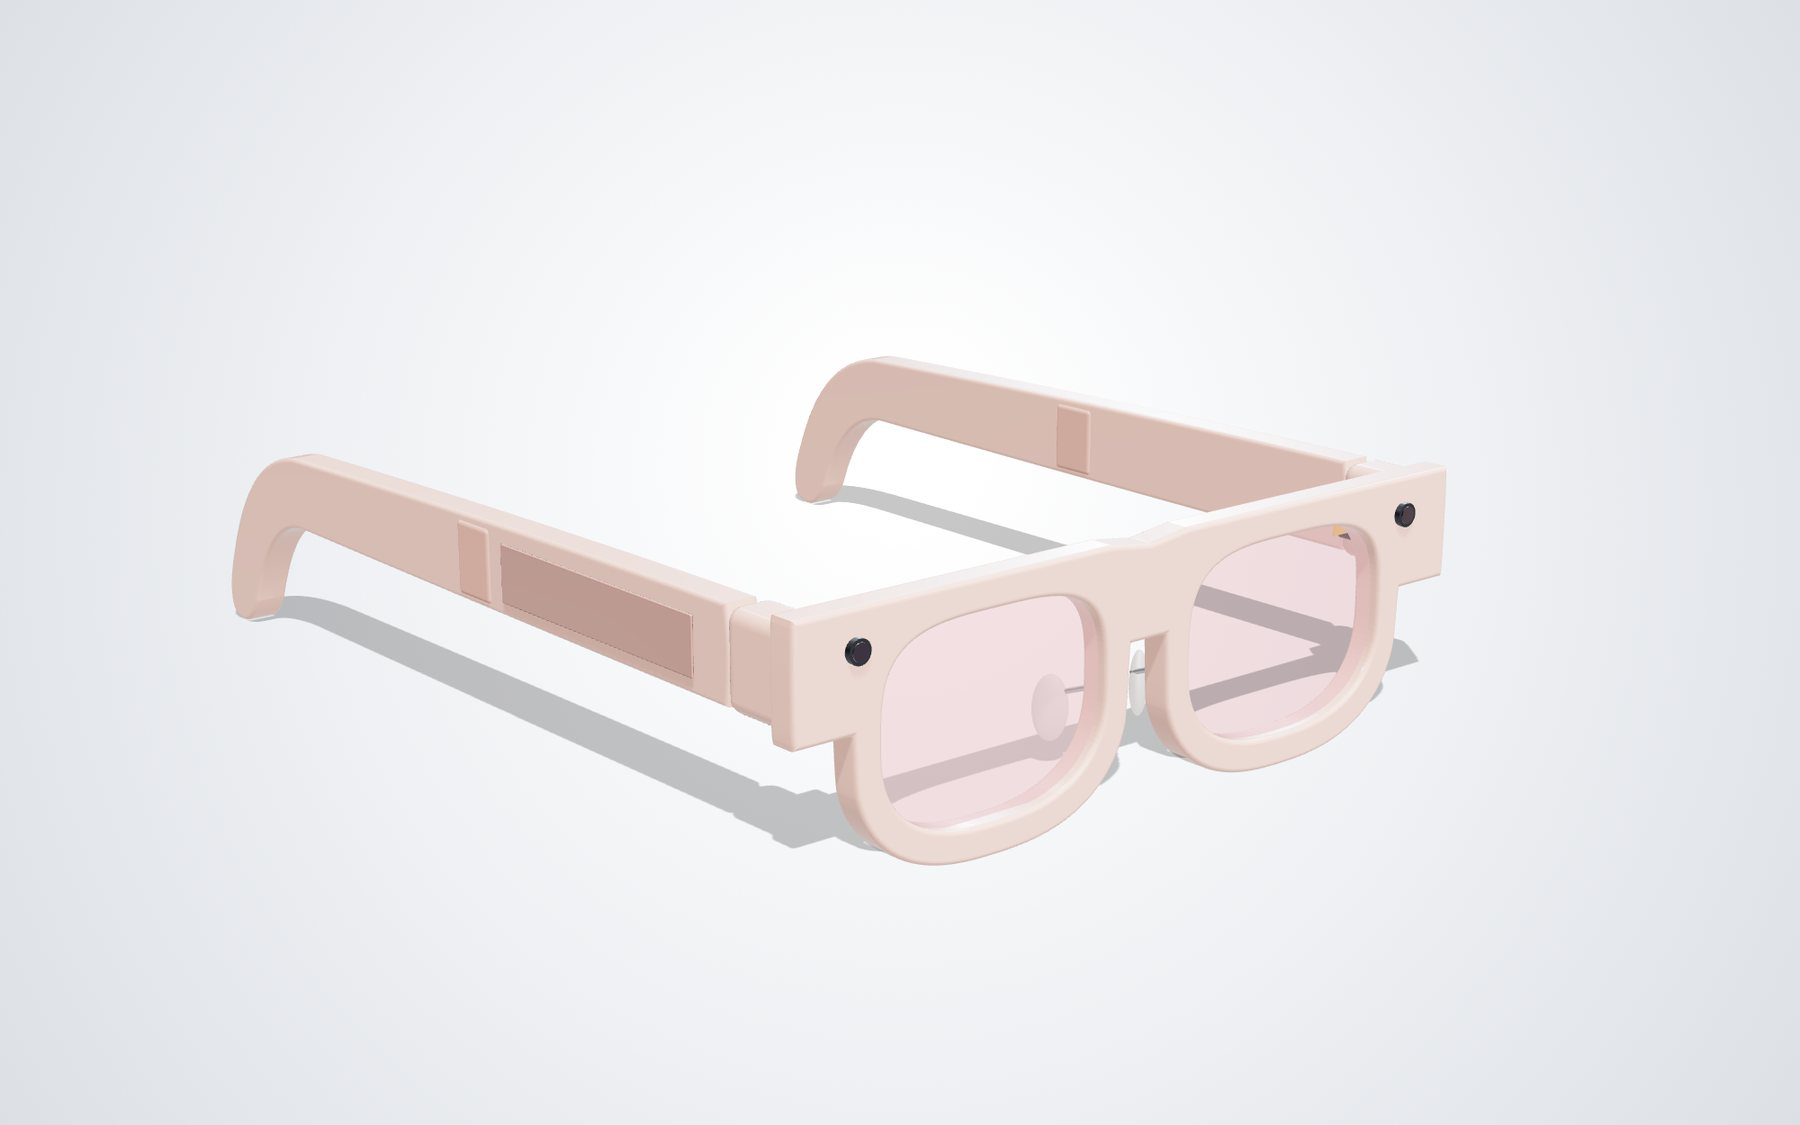
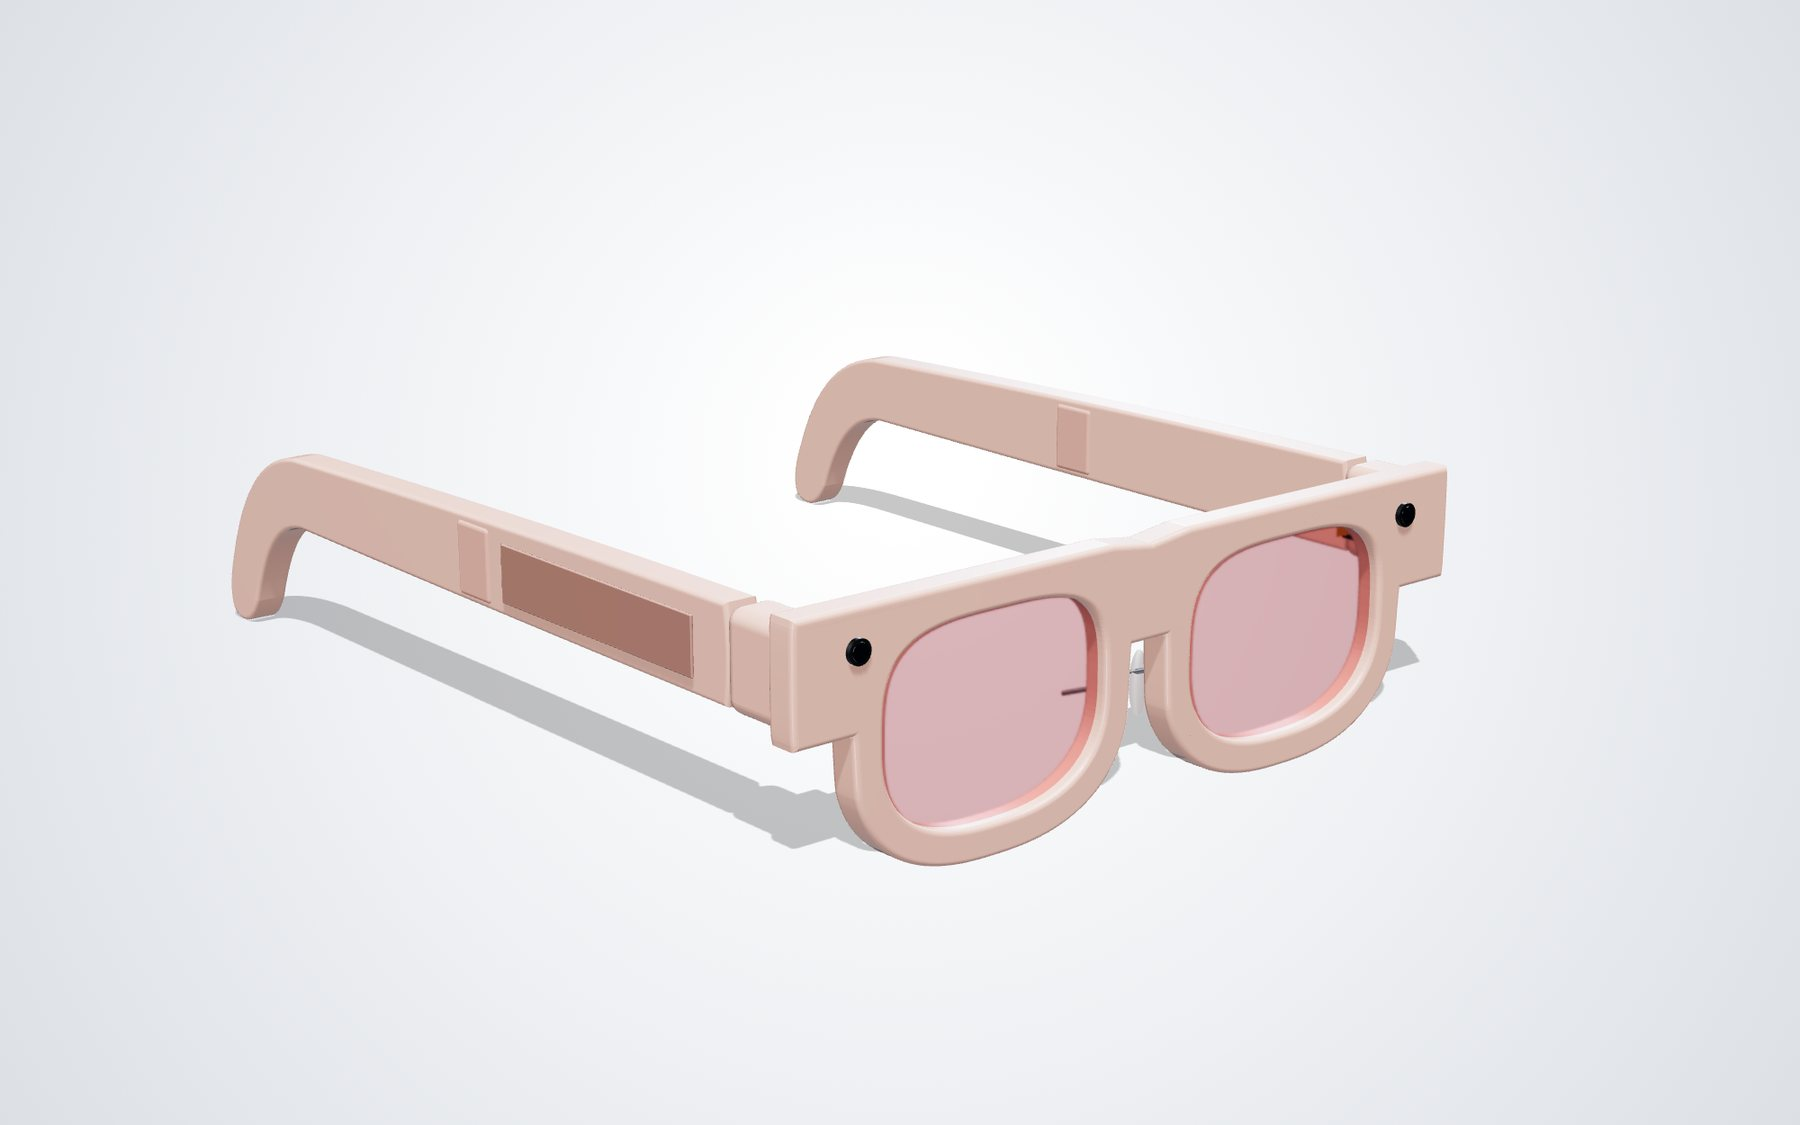
Realistic frames: studio lighting, polished acetate, glass lenses, round and panto styles
Claude-Session: https://claude.ai/code/session_015V3QWV9nG91xpdHoGBTigu

Changed region(s): [[0.28, 0.4044, 0.8089, 0.7778], [0.1244, 0.4667, 0.1867, 0.56], [0.4356, 0.3733, 0.4978, 0.4667]]

diff --git a/scripts/glasses_render/glasses.html b/scripts/glasses_render/glasses.html
@@ -41,6 +41,7 @@ const CLEAN = params.has('clean') || MODE === 'anim' || MODE === 'worn';   // no
 const COLOR = params.get('color') || 'obsidian';
 const LENS = params.get('lens') || 'clear';
 const VIEW = params.get('view') || 'three-quarter';
+const STYLE = params.get('style') || 'square';      // square | round | panto
 const BG = (params.get('bg') || '').split(',').filter(Boolean).map(c => '#' + c);
 document.body.style.width = W + 'px'; document.body.style.height = H + 'px';
 document.getElementById('wrap').style.cssText = `width:${W}px;height:${H}px`;
@@ -61,7 +62,21 @@ scene.background = (() => { const c = document.createElement('canvas'); c.width 
   const grd = g.createRadialGradient(600, 300, 50, 600, 375, 820); grd.addColorStop(0, b0); grd.addColorStop(0.45, b1); grd.addColorStop(1, b2);
   g.fillStyle = grd; g.fillRect(0, 0, 1200, 750); const t = new THREE.CanvasTexture(c); t.colorSpace = THREE.SRGBColorSpace; return t; })();
 const pmrem = new THREE.PMREMGenerator(renderer);
-scene.environment = pmrem.fromScene(new RoomEnvironment(), 0.04).texture;
+// studio environment: dark room with soft boxes, so gloss and glass pick up long, clean highlights
+function studioEnv() {
+  const s = new THREE.Scene();
+  s.add(new THREE.Mesh(new THREE.BoxGeometry(120, 120, 120), new THREE.MeshBasicMaterial({ color: 0x2a2c30, side: THREE.BackSide })));
+  const floor = new THREE.Mesh(new THREE.PlaneGeometry(120, 120), new THREE.MeshBasicMaterial({ color: 0x8a8c90 }));
+  floor.rotation.x = -Math.PI / 2; floor.position.y = -40; s.add(floor);
+  const panel = (w, h, pos, k) => { const m = new THREE.Mesh(new THREE.PlaneGeometry(w, h), new THREE.MeshBasicMaterial({ color: new THREE.Color(k, k, k), side: THREE.DoubleSide })); m.position.set(...pos); m.lookAt(0, 0, 0); s.add(m); };
+  panel(70, 26, [0, 50, 8], 7);        // overhead softbox
+  panel(10, 80, [-50, 8, 24], 5);      // left strip
+  panel(10, 80, [50, 8, -18], 3.5);    // right strip
+  panel(60, 18, [0, 4, 56], 1.6);      // front fill
+  panel(40, 40, [-30, 20, -50], 1.2);  // back kicker
+  return pmrem.fromScene(s, 0.015).texture;
+}
+scene.environment = params.get('env') === 'room' ? pmrem.fromScene(new RoomEnvironment(), 0.04).texture : studioEnv();
 scene.environmentIntensity = 0.9;
 
 // ---------- lights ----------
@@ -155,13 +170,14 @@ const speakerTex = canvasTex(512, 256, (g, w, h) => {
 
 // ---------- materials ----------
 const M = {
-  frame: new THREE.MeshPhysicalMaterial({ color: 0x1d1e22, roughness: 0.32, metalness: 0.0, clearcoat: 0.9, clearcoatRoughness: 0.12, sheen: 0.2 }),
+  // polished acetate: a glossy clear coat over a slightly softer base
+  frame: new THREE.MeshPhysicalMaterial({ color: 0x1d1e22, roughness: 0.28, metalness: 0.0, clearcoat: 1.0, clearcoatRoughness: 0.04, ior: 1.49, specularIntensity: 1 }),
   frameInner: new THREE.MeshPhysicalMaterial({ color: 0x26272c, roughness: 0.55, metalness: 0.0, clearcoat: 0.3 }),
   touch: new THREE.MeshPhysicalMaterial({ color: 0x2c2e33, roughness: 0.18, metalness: 0.2, clearcoat: 1.0, clearcoatRoughness: 0.04 }),
   antennaWin: new THREE.MeshPhysicalMaterial({ color: 0x35373c, roughness: 0.6, metalness: 0.0 }),
-  lens: new THREE.MeshPhysicalMaterial({ color: 0xffffff, roughness: 0.02, metalness: 0, transmission: 0.0, opacity: 0.22, ior: 1.6, depthWrite: false,
-    iridescence: 0.3, iridescenceIOR: 1.35, iridescenceThicknessRange: [180, 420], attenuationColor: new THREE.Color(0xbfd6e6), attenuationDistance: 120,
-    specularIntensity: 1, envMapIntensity: 1.4, transparent: true }),
+  // real glass: refracts what is behind it, with a faint anti-reflection coating sheen
+  lens: new THREE.MeshPhysicalMaterial({ color: 0xffffff, roughness: 0.0, metalness: 0, transmission: 1.0, thickness: 1.6, ior: 1.6,
+    iridescence: 0.35, iridescenceIOR: 1.38, iridescenceThicknessRange: [220, 480], specularIntensity: 1, envMapIntensity: 1.2 }),
   metal: new THREE.MeshPhysicalMaterial({ color: 0xc9ccd1, roughness: 0.28, metalness: 1.0, roughnessMap: brushedTex }),
   darkMetal: new THREE.MeshPhysicalMaterial({ color: 0x55585e, roughness: 0.35, metalness: 1.0 }),
   gold: new THREE.MeshPhysicalMaterial({ color: 0xe2b24f, roughness: 0.25, metalness: 1.0 }),
@@ -198,15 +214,23 @@ const PALETTES = {
   midnight: { frame: 0x1b2a4c, inner: 0x16213a, rough: 0.3, cc: 0.9 },
   sage:     { frame: 0x7d907e, inner: 0x6a7b6b, rough: 0.5, cc: 0.4, touch: 0x5d6b5e },
   blush:    { frame: 0xdcaa9c, inner: 0xc9968a, rough: 0.4, cc: 0.7, touch: 0xb48478 },
+  // clear acetate front; the arms carry electronics so they stay opaque graphite
+  crystal:  { frame: 0xf7f7f5, inner: 0x2c2d31, rough: 0.02, cc: 1.0, clear: 1.0, arm: 0x34363b, touch: 0x2c2e33 },
+  smoke:    { frame: 0x5e5a55, inner: 0x2c2d31, rough: 0.06, cc: 1.0, clear: 0.7, arm: 0x2a2b2f },
 };
 const PAL = PALETTES[COLOR] || PALETTES.obsidian;
 if (PAL.tex) { M.frame.map = PAL.tex; M.frame.color.set(0xffffff); } else M.frame.color.set(PAL.frame);
 M.frame.roughness = PAL.rough; M.frame.clearcoat = PAL.cc;
+M.arm = M.frame;
+if (PAL.clear) {
+  M.arm = M.frame.clone(); M.arm.color.set(PAL.arm); M.arm.roughness = 0.25;
+  Object.assign(M.frame, { transmission: PAL.clear, thickness: 3, attenuationColor: new THREE.Color(PAL.frame), attenuationDistance: 30 });
+}
 M.frameInner.color.set(PAL.inner); M.antennaWin.color.set(PAL.inner);
 if (PAL.touch) M.touch.color.set(PAL.touch);
-const LENSES = { clear: [0xffffff, 0.22], sun: [0x26241f, 0.8], amber: [0x9a5a1c, 0.55], blue: [0x2d4f86, 0.55], rose: [0xc77f86, 0.45] };
-const [lensCol, lensOp] = LENSES[LENS] || LENSES.clear;
-M.lens.color.set(lensCol); M.lens.opacity = lensOp;
+// lens tints, as the colour of the glass (transmission multiplies by it)
+const LENSES = { clear: 0xffffff, sun: 0x3a3732, amber: 0xe3a865, blue: 0x6f92c8, rose: 0xe2a6ac };
+M.lens.color.set(LENSES[LENS] || LENSES.clear);
 
 
 // ---------- helpers ----------
@@ -247,8 +271,15 @@ function chaikin(pts, it = 3) {
 }
 
 // ---------- dimensions (mm) ----------
-const LX = 34, LA = 25, LB = 19;      // lens centre x, half width, half height
-const RIM = 4;
+// lens centre x, half width, half height and superellipse exponents (top, bottom) per frame style
+const STYLES = {
+  square: { LX: 34, LA: 25, LB: 19, n: 3.4, nb: 2.5, rim: 4 },
+  round:  { LX: 31.5, LA: 21, LB: 20, n: 2.05, nb: 2.05, rim: 3.4 },
+  panto:  { LX: 33, LA: 23.5, LB: 19.5, n: 3.0, nb: 1.9, rim: 3.6 },
+};
+const STY = STYLES[STYLE] || STYLES.square;
+const LX = STY.LX, LA = STY.LA, LB = STY.LB;
+const RIM = STY.rim;
 const TOP = LB + RIM;                 // 23
 const ARM_X = 71.5, ARM_T = 6.5;
 
@@ -268,19 +299,42 @@ function frontShape() {
   }
   const pts = chaikin([...bot, ...top.reverse()], 3);
   const shape = new THREE.Shape(pts);
-  [-LX, LX].forEach(cx => shape.holes.push(new THREE.Path(lensPts(cx, 0, LA, LB).reverse())));
+  [-LX, LX].forEach(cx => shape.holes.push(new THREE.Path(lensPts(cx, 0, LA, LB, STY.n, STY.nb).reverse())));
   return shape;
+}
+function buildRings(g) {
+  // each lens gets its own rim, joined by a keyhole bridge and tabs out to the hinge blocks
+  [-1, 1].forEach(s => {
+    const cx = s * LX;
+    const shape = new THREE.Shape(lensPts(cx, 0, LA + RIM, LB + RIM, STY.n, STY.nb, 160));
+    shape.holes.push(new THREE.Path(lensPts(cx, 0, LA, LB, STY.n, STY.nb, 160).reverse()));
+    const geo = new THREE.ExtrudeGeometry(shape, { depth: 3.6, bevelEnabled: true, bevelThickness: 1.2, bevelSize: 1.1, bevelSegments: 8, curveSegments: 96 });
+    geo.translate(0, 0, -1.8);
+    g.add(shadowy(new THREE.Mesh(geo, M.frame)));
+    // tab from the rim to the hinge block
+    const x0 = cx + s * (LA + RIM - 4), x1 = s * 68;
+    const tab = rbox(Math.abs(x1 - x0), 10.5, 5.2, 2.2, M.frame);
+    tab.position.set((x0 + x1) / 2, 14.5, -0.4);
+    g.add(tab);
+  });
+  const bx = LX - LA - 1.2;
+  const curve = new THREE.CatmullRomCurve3([new THREE.Vector3(-bx - 1.5, 9.5, 0), new THREE.Vector3(-bx * 0.5, 12.2, 0.4), new THREE.Vector3(0, 12.8, 0.6),
+    new THREE.Vector3(bx * 0.5, 12.2, 0.4), new THREE.Vector3(bx + 1.5, 9.5, 0)]);
+  const br = shadowy(new THREE.Mesh(new THREE.TubeGeometry(curve, 48, 2.3, 24, false), M.frame));
+  br.scale.z = 1.25; g.add(br);
 }
 function buildFrontFrame() {
   const g = new THREE.Group();
-  const geo = new THREE.ExtrudeGeometry(frontShape(), { depth: 4.2, bevelEnabled: true, bevelThickness: 0.9, bevelSize: 0.9, bevelSegments: 5, curveSegments: 64 });
-  geo.translate(0, 0, -2.1);
-  const m = shadowy(new THREE.Mesh(geo, M.frame));
-  g.add(m);
+  if (STYLE === 'square' || !STYLES[STYLE]) {
+    const geo = new THREE.ExtrudeGeometry(frontShape(), { depth: 4.2, bevelEnabled: true, bevelThickness: 1.1, bevelSize: 1.0, bevelSegments: 8, curveSegments: 96 });
+    geo.translate(0, 0, -2.1);
+    g.add(shadowy(new THREE.Mesh(geo, M.frame)));
+  } else buildRings(g);
   // end pieces / hinge blocks
   [-1, 1].forEach(s => {
-    const e = rbox(9.5, 17.5, 16, 2.6, M.frame);
-    e.position.set(s * 71, 13.8, -6.5);
+    const ringed = STYLE !== 'square' && STYLES[STYLE];
+    const e = ringed ? rbox(8.5, 13.5, 14, 3.2, M.arm) : rbox(9.5, 17.5, 16, 2.6, M.arm);
+    e.position.set(s * 71, ringed ? 14.2 : 13.8, ringed ? -7.2 : -6.5);
     g.add(e);
   });
   // nose pads
@@ -295,7 +349,7 @@ function buildFrontFrame() {
 }
 
 function buildLens(cx) {
-  const shape = new THREE.Shape(lensPts(cx, 0, LA + 0.9, LB + 0.9));
+  const shape = new THREE.Shape(lensPts(cx, 0, LA + 0.9, LB + 0.9, STY.n, STY.nb));
   const geo = new THREE.ExtrudeGeometry(shape, { depth: 1.4, bevelEnabled: true, bevelThickness: 0.2, bevelSize: 0.2, bevelSegments: 3, curveSegments: 64 });
   geo.translate(0, 0, -0.7);
   const m = new THREE.Mesh(geo, M.lens);
@@ -495,7 +549,8 @@ if (EXPLODED) addLabel(front, 'Front frame', 'acetate-over-metal, end pieces hol
     new THREE.Vector3(0, 19.6, -3.4), new THREE.Vector3(20, 20.5, -3.4), new THREE.Vector3(60, 20, -3.4), new THREE.Vector3(66, 17, -6)
   ], 3.2, M.flex);
   ff.position.set(0, ex(62), ex(-6));
-  root.add(ff);
+  // on the rimmed styles the flex runs hidden inside the brow, so only show it when exploded
+  if (STYLE === 'square' || EXPLODED) root.add(ff);
   if (EXPLODED) addLabel(ff, 'Frame flex', 'display, camera and board-to-board link', new THREE.Vector3(22, 20.5, -3.4));
 }
 
@@ -517,7 +572,7 @@ SIDES.forEach(({ s, name, board }) => {
   {
     const solid = new THREE.Group(); armGroup.add(solid);
     const geo = armGeo(ARM_T - 1.6);
-    const arm = shadowy(new THREE.Mesh(geo, M.frame));
+    const arm = shadowy(new THREE.Mesh(geo, M.arm));
     placeArm(arm, s, s < 0 ? -(ARM_X + ARM_T / 2 - 0.8) : (ARM_X - ARM_T / 2 + 0.8));
     solid.add(arm);
     // touchpad inset on right arm outer face
@@ -543,7 +598,7 @@ SIDES.forEach(({ s, name, board }) => {
 
   // ---- exploded arm ----
   const SH = 1.6; // shell plate thickness (before bevel)
-  const outerShell = shadowy(new THREE.Mesh(armGeo(SH), M.frame));
+  const outerShell = shadowy(new THREE.Mesh(armGeo(SH), M.arm));
   placeArm(outerShell, s, 0);
   outerShell.position.x = (s < 0 ? -(ARM_X + ARM_T / 2 - 0.8) : (ARM_X + ARM_T / 2 - 0.8 - SH)) + s * ex(78);
   armGroup.add(outerShell);

diff --git a/site/index.html b/site/index.html
@@ -120,6 +120,15 @@ nav.top.solid .links a:hover { color: var(--ink); }
 .thumbs img { aspect-ratio: 16/10; object-fit: cover; width: 100%; }
 @media (max-width: 700px) { .thumbs { grid-template-columns: repeat(3, minmax(0, 1fr)); } }
 
+/* styles */
+.styles { display: grid; grid-template-columns: repeat(3, minmax(0, 1fr)); gap: 18px; margin-top: 48px; }
+.styles figure { margin: 0; background: var(--card); border: 1px solid var(--line); border-radius: 22px; overflow: hidden; }
+.styles img { aspect-ratio: 16 / 11; object-fit: cover; width: 100%; background: #eceae5; }
+.styles figcaption { padding: 16px 20px 20px; }
+.styles figcaption b { display: block; font: 600 20px "Inter Tight", sans-serif; }
+.styles figcaption span { color: var(--ink-3); font-size: 14px; }
+@media (max-width: 860px) { .styles { grid-template-columns: 1fr; } }
+
 /* on model */
 .models { display: grid; grid-template-columns: 1.25fr 1fr; grid-template-rows: auto auto; gap: 18px; margin-top: 48px; }
 .models figure { margin: 0; position: relative; border-radius: 22px; overflow: hidden; background: var(--bg-2); }
@@ -259,6 +268,7 @@ footer .wrap { display: flex; justify-content: space-between; gap: 24px; flex-wr
     <div class="links">
       <a href="#concept">Concept</a>
       <a href="#colours">Colours</a>
+      <a href="#styles">Styles</a>
       <a href="#on-model">On model</a>
       <a href="#design">Design</a>
       <a href="#journey">Roadmap</a>
@@ -339,6 +349,20 @@ footer .wrap { display: flex; justify-content: space-between; gap: 24px; flex-wr
   </div>
 </section>
 
+<!-- STYLES -->
+<section id="styles" style="padding-top:0;background:var(--bg-2)">
+  <div class="wrap reveal">
+    <div class="eyebrow">Frame styles</div>
+    <h2>Three shapes, same insides.</h2>
+    <p class="lede">The electronics live in the arms and the hinge blocks, so the front can take the shape people already like to wear. Polished acetate fronts, glass lenses with an anti-reflection coating.</p>
+    <div class="styles">
+      <figure><img src="assets/img/style-square.jpg" alt="Square frame in gloss black" loading="lazy"><figcaption><b>Square</b><span>Obsidian, clear lenses</span></figcaption></figure>
+      <figure><img src="assets/img/style-round.jpg" alt="Round frame in tortoiseshell with amber lenses" loading="lazy"><figcaption><b>Round</b><span>Havana, amber lenses</span></figcaption></figure>
+      <figure><img src="assets/img/style-panto.jpg" alt="Panto frame in translucent smoke with graphite arms" loading="lazy"><figcaption><b>Panto</b><span>Smoke front, graphite arms</span></figcaption></figure>
+    </div>
+  </div>
+</section>
+
 <!-- ON MODEL -->
 <section id="on-model">
   <div class="wrap reveal">
@@ -346,9 +370,9 @@ footer .wrap { display: flex; justify-content: space-between; gap: 24px; flex-wr
     <h2>How it sits on a face.</h2>
     <p class="lede">The arms rest on the ears like ordinary glasses. The batteries ride behind the ears to balance the weight of the lenses at the front.</p>
     <div class="models">
-      <figure><img src="assets/img/model-1.jpg" alt="Havana tortoiseshell Aurora glasses with amber lenses on a sculpted bust, three-quarter view" loading="lazy"><figcaption>Havana · amber lenses</figcaption></figure>
+      <figure><img src="assets/img/model-1.jpg" alt="Round Havana tortoiseshell Aurora glasses with amber lenses on a sculpted bust, three-quarter view" loading="lazy"><figcaption>Round · Havana · amber lenses</figcaption></figure>
       <figure><img src="assets/img/model-2.jpg" alt="Glacier white Aurora glasses on a sculpted bust, profile view" loading="lazy"><figcaption>Glacier · clear lenses</figcaption></figure>
-      <figure><img src="assets/img/model-3.jpg" alt="Midnight blue Aurora glasses with sun lenses on a sculpted bust, front view" loading="lazy"><figcaption>Midnight · sun lenses</figcaption></figure>
+      <figure><img src="assets/img/model-3.jpg" alt="Panto Midnight blue Aurora glasses with sun lenses on a sculpted bust, front view" loading="lazy"><figcaption>Panto · Midnight · sun lenses</figcaption></figure>
     </div>
     <p class="note">These are 3D renders on sculpted display busts, built from the same model as the product renders. They stand in for photography of real people wearing prototypes, which can replace them once proof-of-concept frames exist.</p>
   </div>
